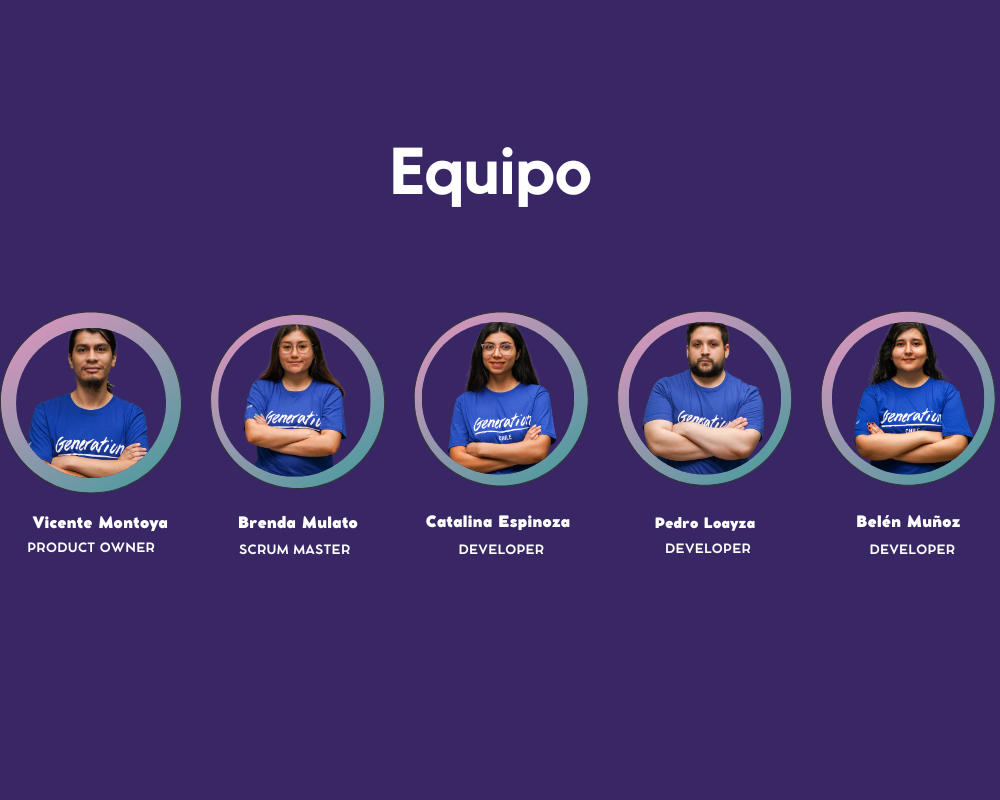
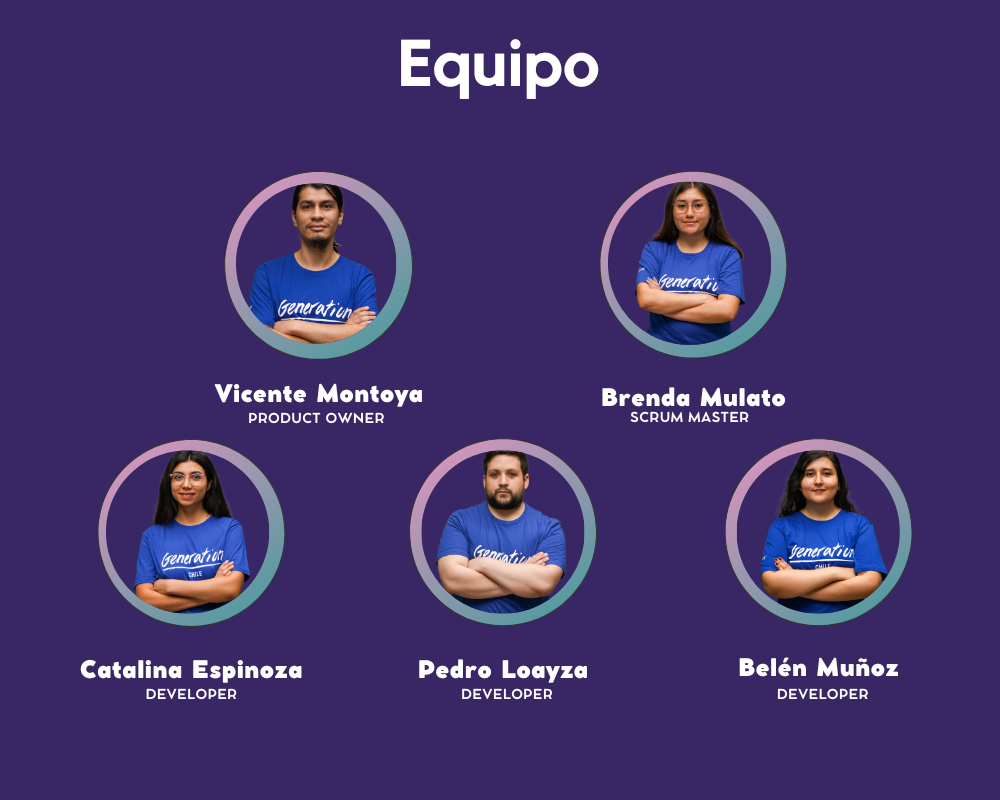
cambios en acerca de

diff --git a/src/pages/AcercaDe/AcercaDe.css b/src/pages/AcercaDe/AcercaDe.css
@@ -1,73 +1,54 @@
 /* src/pages/AcercaDe/AcercaDe.css */
 
 .presentacion {
-    /*background-color: #4A148C; /* Color de fondo */
-    padding: 20px;
-    border-radius: 10px;
-    max-width: 800px;
-    margin: 20px auto;
-    color: #fff; /* Color del texto */
-    text-align: center; /* Centrar el texto */
-  }
-  
-  .header {
-    display: flex;
-    align-items: center;
-    justify-content: center;
-    margin-bottom: 20px;
-  }
-  
-  .logo {
-    height: 50px;
-    margin-right: 20px;
-  }
-  
-  .contenido {
-    text-align: center; /* Centrar el texto */
-  }
-  
-  .contenido h2 {
-    font-size: 24px;
-    margin-bottom: 10px;
-    color: #ffd700; /* Color del texto del título */
-  }
-  
-  .contenido p {
-    font-size: 16px;
-    margin-bottom: 20px;
-    color: #fff; /* Color del texto */
-  }
-  
-  background-color: var (--color_background);
-  color: white; /* Color del texto */
-  padding: 20px; /* Espaciado interno */
+  /*background-color: #4A148C; /* Color de fondo */
+  padding: 20px;
+  border-radius: 10px;
+  max-width: 800px;
+  margin: 20px auto;
+  color: #fff; /* Color del texto */
   text-align: center; /* Centrar el texto */
 }
 
-/* 
 .header {
   display: flex;
   align-items: center;
   justify-content: center;
-  background-color: #350e7d; /* Color de fondo de la cabecera 
-  padding: 10px; /* Espaciado interno 
-  margin-bottom: 20px; /* Espaciado inferior 
-}                     
+  margin-bottom: 20px;
+}
 
 .logo {
-  height: 50px; /* Ajusta el tamaño del logo 
-  margin-right: 10px; /* Espaciado derecho del logo 
-} */
+  height: 50px;
+  margin-right: 20px;
+}
+
+.contenido h2 {
+  font-size: 24px;
+  margin-bottom: 10px;
+  color: #ffd700; /* Color del texto del título */
+}
+
+.contenido p {
+  font-size: 16px;
+  margin-bottom: 20px;
+  color: #fff; /* Color del texto */
+}
 
 .header {
   display: none;
 }
 
 .contenido {
+  text-align: justify; /* Centrar el texto */
   background-color: var(
-    --color_in_case
+    --color_card_background
   ); /* Color de fondo de la sección de contenido */
   padding: 20px; /* Espaciado interno */
+  margin-top: 50px;
+}
+
+.titulocont {
+  text-align: center;
 }
 
 .contenido h2 {
@@ -81,9 +62,9 @@
 }
 
 .slidercont {
-  margin: auto;
-  width: 900px;
-  padding: 10px;
+  margin: 0;
+  width: 750px;
+  padding: px;
 }
 
 .slider {
@@ -101,8 +82,8 @@
 
 ul.slider {
   position: relative;
-  width: 800px;
-  height: 700px;
+  width: 750px;
+  height: 750px;
 }
 
 ul.slider li {
@@ -117,7 +98,7 @@ ul.slider li {
 }
 
 ul.slider li img {
-  width: 110%;
+  width: 100%;
   height: 90%;
   object-fit: cover;
 }
@@ -151,4 +132,78 @@ ul.slider li:target {
   border-radius: 100%;
   margin-right: 10px;
   font-weight: 500;
+}
+
+@media (max-width: 767px) {
+  .presentacion {
+    padding: 10px;
+    border-radius: 5px;
+    max-width: 100%;
+    margin: 10px auto;
+  }
+
+  .header {
+    display: flex;
+    flex-direction: column;
+    align-items: center;
+    justify-content: center;
+    margin-bottom: 10px;
+  }
+
+  .logo {
+    height: 40px;
+    margin-right: 0;
+    margin-bottom: 10px;
+  }
+
+  .contenido h2 {
+    font-size: 20px;
+    margin-bottom: 5px;
+  }
+
+  .contenido p {
+    font-size: 14px;
+    margin-bottom: 10px;
+  }
+
+  .contenido {
+    text-align: left;
+    padding: 10px;
+    margin-top: 30px;
+  }
+
+  .titulocont {
+    text-align: left;
+  }
+
+  .contenido h2 {
+    font-size: 1.5em;
+    margin-bottom: 10px;
+  }
+
+  .contenido p {
+    font-size: 1em;
+  }
+
+  .slidercont {
+    width: 100%;
+    padding: 0;
+  }
+
+  ul.slider {
+    width: 100%;
+    height: 300px;
+  }
+
+  ul.slider li img {
+    height: 80%;
+  }
+
+  .slidermenu li a {
+    padding: 5px;
+    width: 30px;
+    height: auto;
+    font-size: 16px;
+    margin-right: 5px;
+  }
 }

diff --git a/src/pages/AcercaDe/AcercaDe.jsx b/src/pages/AcercaDe/AcercaDe.jsx
@@ -9,62 +9,53 @@ const AcercaDe = () => {
         <img src={logo} alt="Logo Minga" className="logo" />
         <h1>Minga</h1>
       </div>
-      <div className="contenido">
-        <h2>¿Quiénes somos?</h2>
-        <p>
-          Minga es una aplicación web para conectar trabajadores domésticos con
-          clientes que requieren su servicio.
-        </p>
-        <h2>Misión</h2>
-        <p>
-          Nuestra misión es facilitar la conexión entre trabajadores como
-          carpinteros, albañiles, pintores y otros profesionales del hogar con
-          personas que necesitan sus servicios, asegurando calidad y confianza
-          en cada trabajo realizado.
-        </p>
-        <h2>Visión</h2>
-        <p>
-          Nuestra visión es ser la plataforma líder en la región para la
-          contratación de servicios domésticos, reconocida por la excelencia y
-          la satisfacción tanto de los trabajadores como de los clientes.
-        </p>
-      </div>
-    </div>
-  );
-  return (
-    <div className="presentacion">
-      <div className="header">
-        <img src={logo} alt="Logo Minga" className="logo" />
-        <h1>Minga</h1>
-      </div>
 
-      <div className="slidercont">
-        <ul className="slider">
-          <li className="slider1" id="slider1">
-            <img src="src\assets\Equipominga.png"></img>
-          </li>
-          <li className="slider2" id="slider2">
-            <img src="src\assets\Equipominga1.png"></img>
-          </li>
-        </ul>
+      <div className="presentacion">
+        <div className="header">
+          <img src={logo} alt="Logo Minga" className="logo" />
+          <h1>Minga</h1>
+        </div>
 
-        <ul className="slidermenu">
-          <li>
-            <a href="#slider1">1</a>
-          </li>
-          <li>
-            <a href="#slider2">2</a>
-          </li>
-        </ul>
-      </div>
+        <div className="slidercont">
+          <ul className="slider">
+            <li className="slider1" id="slider1">
+              <img src="src\assets\Equipominga.png"></img>
+            </li>
+            <li className="slider2" id="slider2">
+              <img src="src\assets\Equipominga1.png"></img>
+            </li>
+          </ul>
 
-      <div className="contenido">
-        <h2>¿Quiénes somos?</h2>
+          <ul className="slidermenu">
+            <li>
+              <a href="#slider1">1</a>
+            </li>
+            <li>
+              <a href="#slider2">2</a>
+            </li>
+          </ul>
+        </div>
 
-        <p>
-          Minga es una aplicación web para conectar trabajadores domésticos con
-          clientes que requieren su servicio.
-        </p>
+        <div className="contenido">
+          <h2 className="titulocont">¿Quiénes somos?</h2>
+          <p>
+            Minga es una aplicación web para conectar trabajadores domésticos
+            con clientes que requieren su servicio.
+          </p>
+          <h2 className="titulocont">Misión</h2>
+          <p>
+            Nuestra misión es facilitar la conexión entre trabajadores como
+            carpinteros, albañiles, pintores y otros profesionales del hogar con
+            personas que necesitan sus servicios, asegurando calidad y confianza
+            en cada trabajo realizado.
+          </p>
+          <h2 className="titulocont">Visión</h2>
+          <p>
+            Nuestra visión es ser la plataforma líder en la región para la
+            contratación de servicios domésticos, reconocida por la excelencia y
+            la satisfacción tanto de los trabajadores como de los clientes.
+          </p>
+        </div>
       </div>
     </div>
   );
